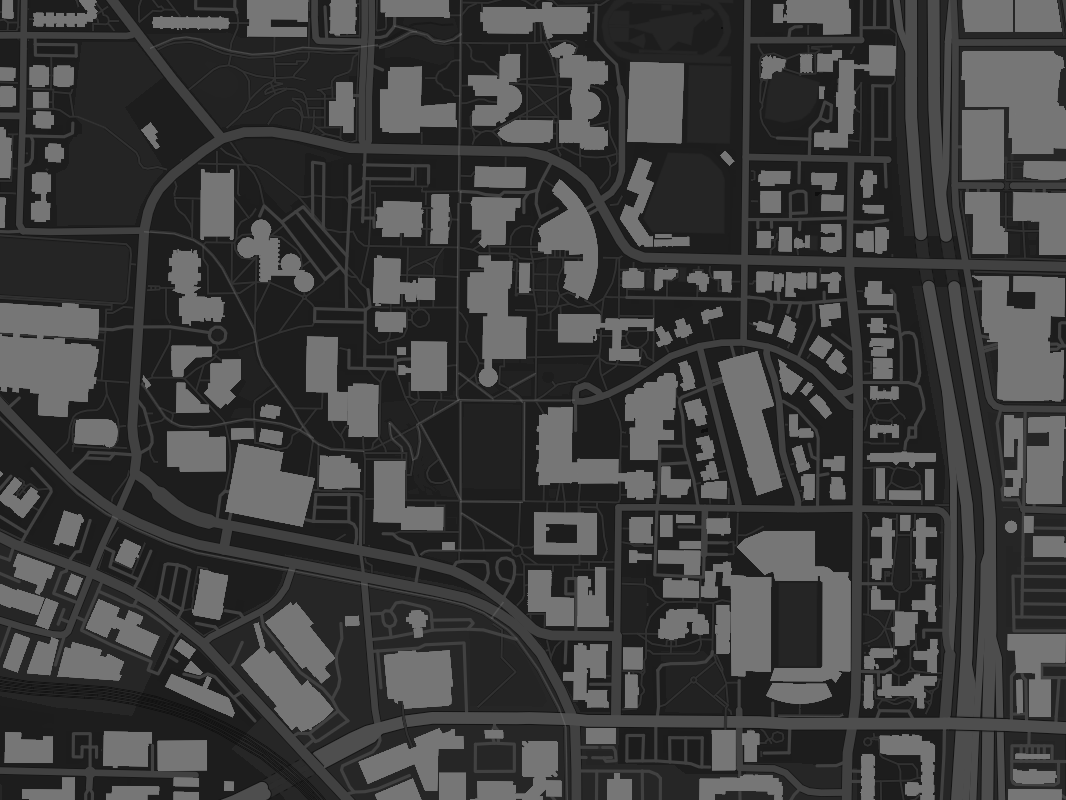
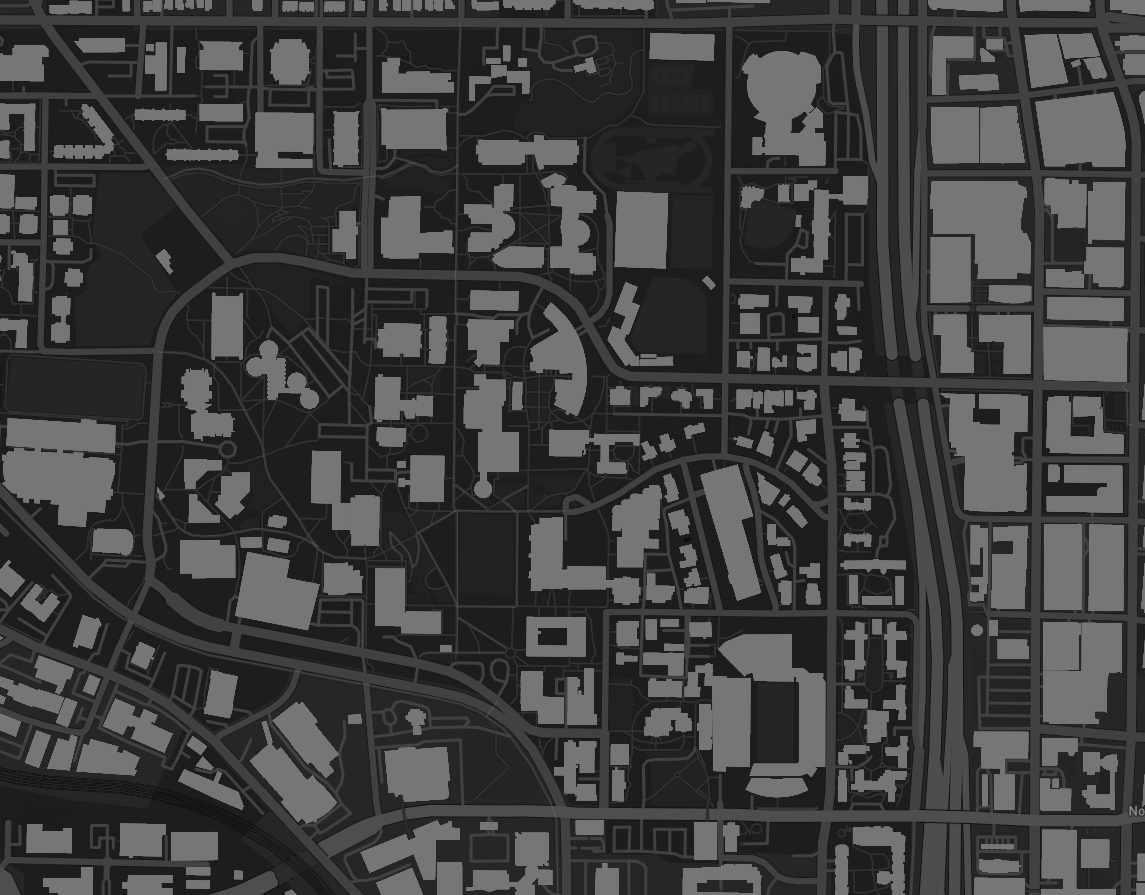
Add heat map

diff --git a/src/components/Map/Map.tsx b/src/components/Map/Map.tsx
@@ -1,11 +1,14 @@
 import { useEffect, useRef } from "react";
 import * as THREE from "three";
 import { OrbitControls } from "three/examples/jsm/controls/OrbitControls.js";
-import { CSS2DRenderer } from 'three/examples/jsm/renderers/CSS2DRenderer.js';
-import { createMapDots, getClickedDot } from "./utils/dots";
+import { CSS2DObject, CSS2DRenderer } from 'three/examples/jsm/renderers/CSS2DRenderer.js';
+import { createMapDots, getClickedDot, getHoveredDot } from "./utils/dots";
 import { createCompass } from "./utils/compass";
 import { createContourLines } from "./utils/contourLines";
 import { DISPLACEMENT_SCALE_TOPOLOGY, DISPLACEMENT_SCALE_CAMPUS } from '../../constants';
+import { fetchBuildingsFromSheet } from "./utils/fetchBuildings";
+
+const SHEET_CSV_URL = "https://docs.google.com/spreadsheets/u/1/d/e/2PACX-1vS7CpL6NQ_T7B_ILk7lKjWNlO3pvD0Fzuw2q8Sa2GefZUzNzD7mYfJoOL7GRorTvdb5PLuaU19IhLap/pub?gid=503141692&single=true&output=csv"
 
 const Map = () => {
   const containerRef = useRef<HTMLDivElement | null>(null);
@@ -44,6 +47,30 @@ const Map = () => {
     // ---- COMPASS SETUP ----
     const compass = createCompass(scene);
 
+
+    let hoveredDot: THREE.Mesh | null = null;
+
+    const onMouseMove = (event: MouseEvent) => {
+      if (!dotsGroup) return;
+
+      const newHovered = getHoveredDot(event, camera, dotsGroup);
+
+      // Hide previous
+      if (hoveredDot && hoveredDot !== newHovered) {
+        const prevLabel = hoveredDot.children.find(c => c.name === "dot-label") as CSS2DObject | undefined;
+        if (prevLabel) (prevLabel.element as HTMLElement).style.visibility = 'hidden';
+        hoveredDot = null;
+      }
+
+      // Show new
+      if (newHovered && newHovered !== hoveredDot) {
+        const label = newHovered.children.find(c => c.name === "dot-label") as CSS2DObject | undefined;
+        if (label) (label.element as HTMLElement).style.visibility = 'visible';
+        hoveredDot = newHovered;
+      }
+    };
+    window.addEventListener("mousemove", onMouseMove);
+
     let dotsGroup: THREE.Group | null = null;
 
     const onMouseClick = (event: MouseEvent) => {
@@ -59,19 +86,25 @@ const Map = () => {
       campusTex.colorSpace = THREE.SRGBColorSpace;
       const campusImg = campusTex.image as HTMLImageElement;
 
-      loader.load("/displacement_map.png", (topologyDisp) => {
+      loader.load("/bpm_displacement.png", (topologyDisp) => {
         const width = 100;
         const height = width / (campusImg.width / campusImg.height);
+        const setup = async () => {
+          const locations = await fetchBuildingsFromSheet(SHEET_CSV_URL);
+          console.log(locations);
 
-        dotsGroup = createMapDots({
-          campusImage: campusImg,
-          topologyDispImage: topologyDisp.image as HTMLImageElement,
-          campusScale: DISPLACEMENT_SCALE_CAMPUS,
-          topologyScale: DISPLACEMENT_SCALE_TOPOLOGY,
-          planeWidth: width,
-          planeHeight: height
-        });
-        scene.add(dotsGroup);
+          dotsGroup = createMapDots({
+            campusImage: campusImg,
+            topologyDispImage: topologyDisp.image as HTMLImageElement,
+            campusScale: DISPLACEMENT_SCALE_CAMPUS,
+            topologyScale: DISPLACEMENT_SCALE_TOPOLOGY,
+            planeWidth: width,
+            planeHeight: height,
+            dots: locations,
+          });
+          scene.add(dotsGroup);
+        }
+        setup();
 
         // ---- CONTOUR LINES ----
         const contourGroup = createContourLines({
@@ -162,6 +195,7 @@ const Map = () => {
       cancelAnimationFrame(frameId);
       window.removeEventListener("resize", onResize);
       window.removeEventListener("click", onMouseClick);
+      window.removeEventListener("mousemove", onMouseMove);
       controls.dispose();
       compass.dispose();
       renderer.dispose();

diff --git a/src/components/Map/utils/dots.tsx b/src/components/Map/utils/dots.tsx
@@ -1,6 +1,7 @@
 import * as THREE from "three";
 import { CSS2DObject } from 'three/examples/jsm/renderers/CSS2DRenderer.js';
-import { dots } from '../../../data/geographicData';
+import { type Dot } from '../../../data/geographicData';
+import { DOT_Z_OFFSET } from "../../../constants";
 
 interface DotParams {
   campusImage: HTMLImageElement;
@@ -9,10 +10,25 @@ interface DotParams {
   topologyScale: number;
   planeWidth: number;
   planeHeight: number;
+  dots: Dot[]
 }
 
-const DOT_Z_OFFSET = 0.5;
-const showLabels = true;
+export const getHoveredDot = (
+  event: MouseEvent,
+  camera: THREE.Camera,
+  dotsGroup: THREE.Group
+) => {
+  const raycaster = new THREE.Raycaster();
+  const mouse = new THREE.Vector2();
+
+  mouse.x = (event.clientX / window.innerWidth) * 2 - 1;
+  mouse.y = -(event.clientY / window.innerHeight) * 2 + 1;
+
+  raycaster.setFromCamera(mouse, camera);
+  const intersects = raycaster.intersectObjects(dotsGroup.children);
+
+  return intersects.length > 0 ? intersects[0].object as THREE.Mesh : null;
+};
 
 export const createMapDots = ({
   campusImage,
@@ -21,6 +37,7 @@ export const createMapDots = ({
   topologyScale,
   planeWidth,
   planeHeight,
+  dots
 }: DotParams) => {
   const group = new THREE.Group();
   const canvas = document.createElement('canvas');
@@ -53,24 +70,23 @@ export const createMapDots = ({
     dot.userData = { ...dotData, id: index };
     dot.name = "map-dot";
 
-    if (showLabels) {
-      // Create the Label
-      const labelDiv = document.createElement('div');
-      labelDiv.textContent = dotData.locationName;
-      labelDiv.style.color = 'white';
-      labelDiv.style.fontSize = '10px';
-      labelDiv.style.fontFamily = 'sans-serif';
-      labelDiv.style.padding = '0px 4px';
-      labelDiv.style.background = 'rgba(0, 0, 0, 0.75)';
-      labelDiv.style.borderRadius = '4px';
-      labelDiv.style.whiteSpace = 'nowrap';
-      labelDiv.style.pointerEvents = 'none'; // Click through label to hit dot
-      labelDiv.style.userSelect = 'none';
+    const labelDiv = document.createElement('div');
+    labelDiv.textContent = dotData.locationName;
+    labelDiv.style.color = 'white';
+    labelDiv.style.fontSize = '10px';
+    labelDiv.style.fontFamily = 'sans-serif';
+    labelDiv.style.padding = '0px 4px';
+    labelDiv.style.background = 'rgba(0, 0, 0, 0.75)';
+    labelDiv.style.borderRadius = '4px';
+    labelDiv.style.whiteSpace = 'nowrap';
+    labelDiv.style.pointerEvents = 'none';
+    labelDiv.style.userSelect = 'none';
+    labelDiv.style.visibility = 'hidden'; // ← hidden by default
 
-      const labelObject = new CSS2DObject(labelDiv);
-      labelObject.position.set(0, 3, 0); // Position relative to the dot
-      dot.add(labelObject);
-    }
+    const labelObject = new CSS2DObject(labelDiv);
+    labelObject.position.set(0, 3, 0);
+    labelObject.name = "dot-label"; // ← name it for easy lookup
+    dot.add(labelObject);
 
     group.add(dot);
   });

diff --git a/src/components/Map/utils/fetchBuildings.ts b/src/components/Map/utils/fetchBuildings.ts
@@ -1,0 +1,26 @@
+import type { Dot } from "../../../data/geographicData";
+
+export interface LocationData {
+  name: string;
+  x_norm: number;  // normalized 0–1, mapped to your plane
+  y_norm: number;  // normalized 0–1, mapped to your plane
+  label?: string;
+}
+
+export async function fetchBuildingsFromSheet(csvUrl: string): Promise<Dot[]> {
+  const res = await fetch(csvUrl);
+  const text = await res.text();
+
+  const [headerRow, ...rows] = text.trim().split("\n");
+  const headers = headerRow.split(",").map(h => h.trim());
+
+  return rows.map(row => {
+    const cols = row.split(",").map(c => c.trim());
+    const get = (key: string) => cols[headers.indexOf(key)] ?? "";
+
+    return {
+      coords: [parseFloat(get("x_norm")), parseFloat(get("y_norm"))],
+      locationName: get("building_name"),
+    };
+  }).filter(dot => dot.coords.every(n => !isNaN(n)));
+}

diff --git a/src/data/geographicData.ts b/src/data/geographicData.ts
@@ -1,10 +1,4 @@
-export const dots = [
-  {
-    coords: [0.2, 0.4],
-    locationName: "building 1",
-  },
-  {
-    coords: [0.4, 0.2],
-    locationName: "building 2",
-  },
-]
+export type Dot = {
+  coords: number[];
+  locationName: string;
+}

diff --git a/src/constants.ts b/src/constants.ts
@@ -1,3 +1,3 @@
 export const DISPLACEMENT_SCALE_TOPOLOGY = 20;
 export const DISPLACEMENT_SCALE_CAMPUS = 8;
-export const DOT_Z_OFFSET = 2;
+export const DOT_Z_OFFSET = -1;
